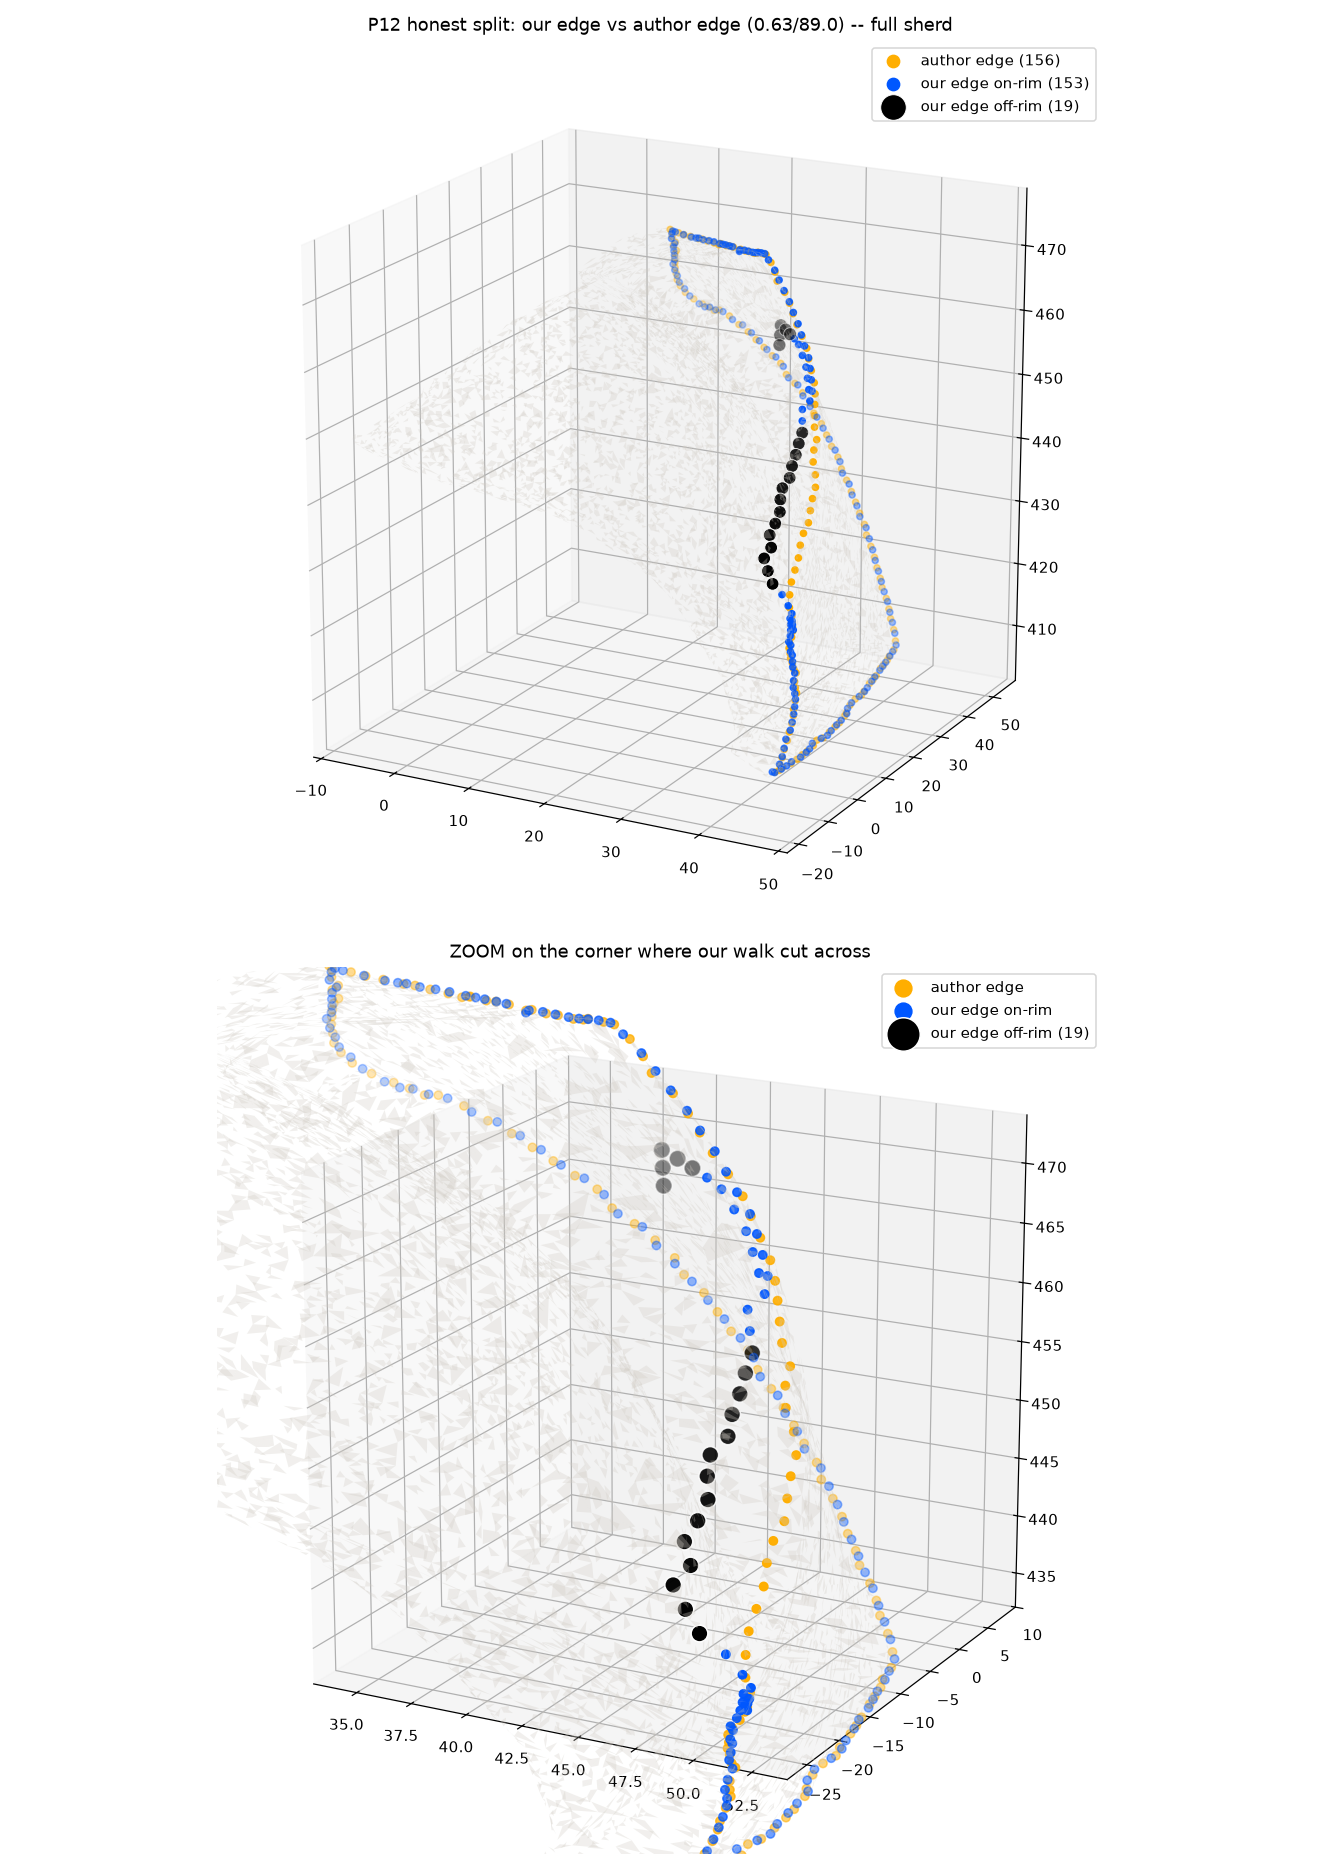
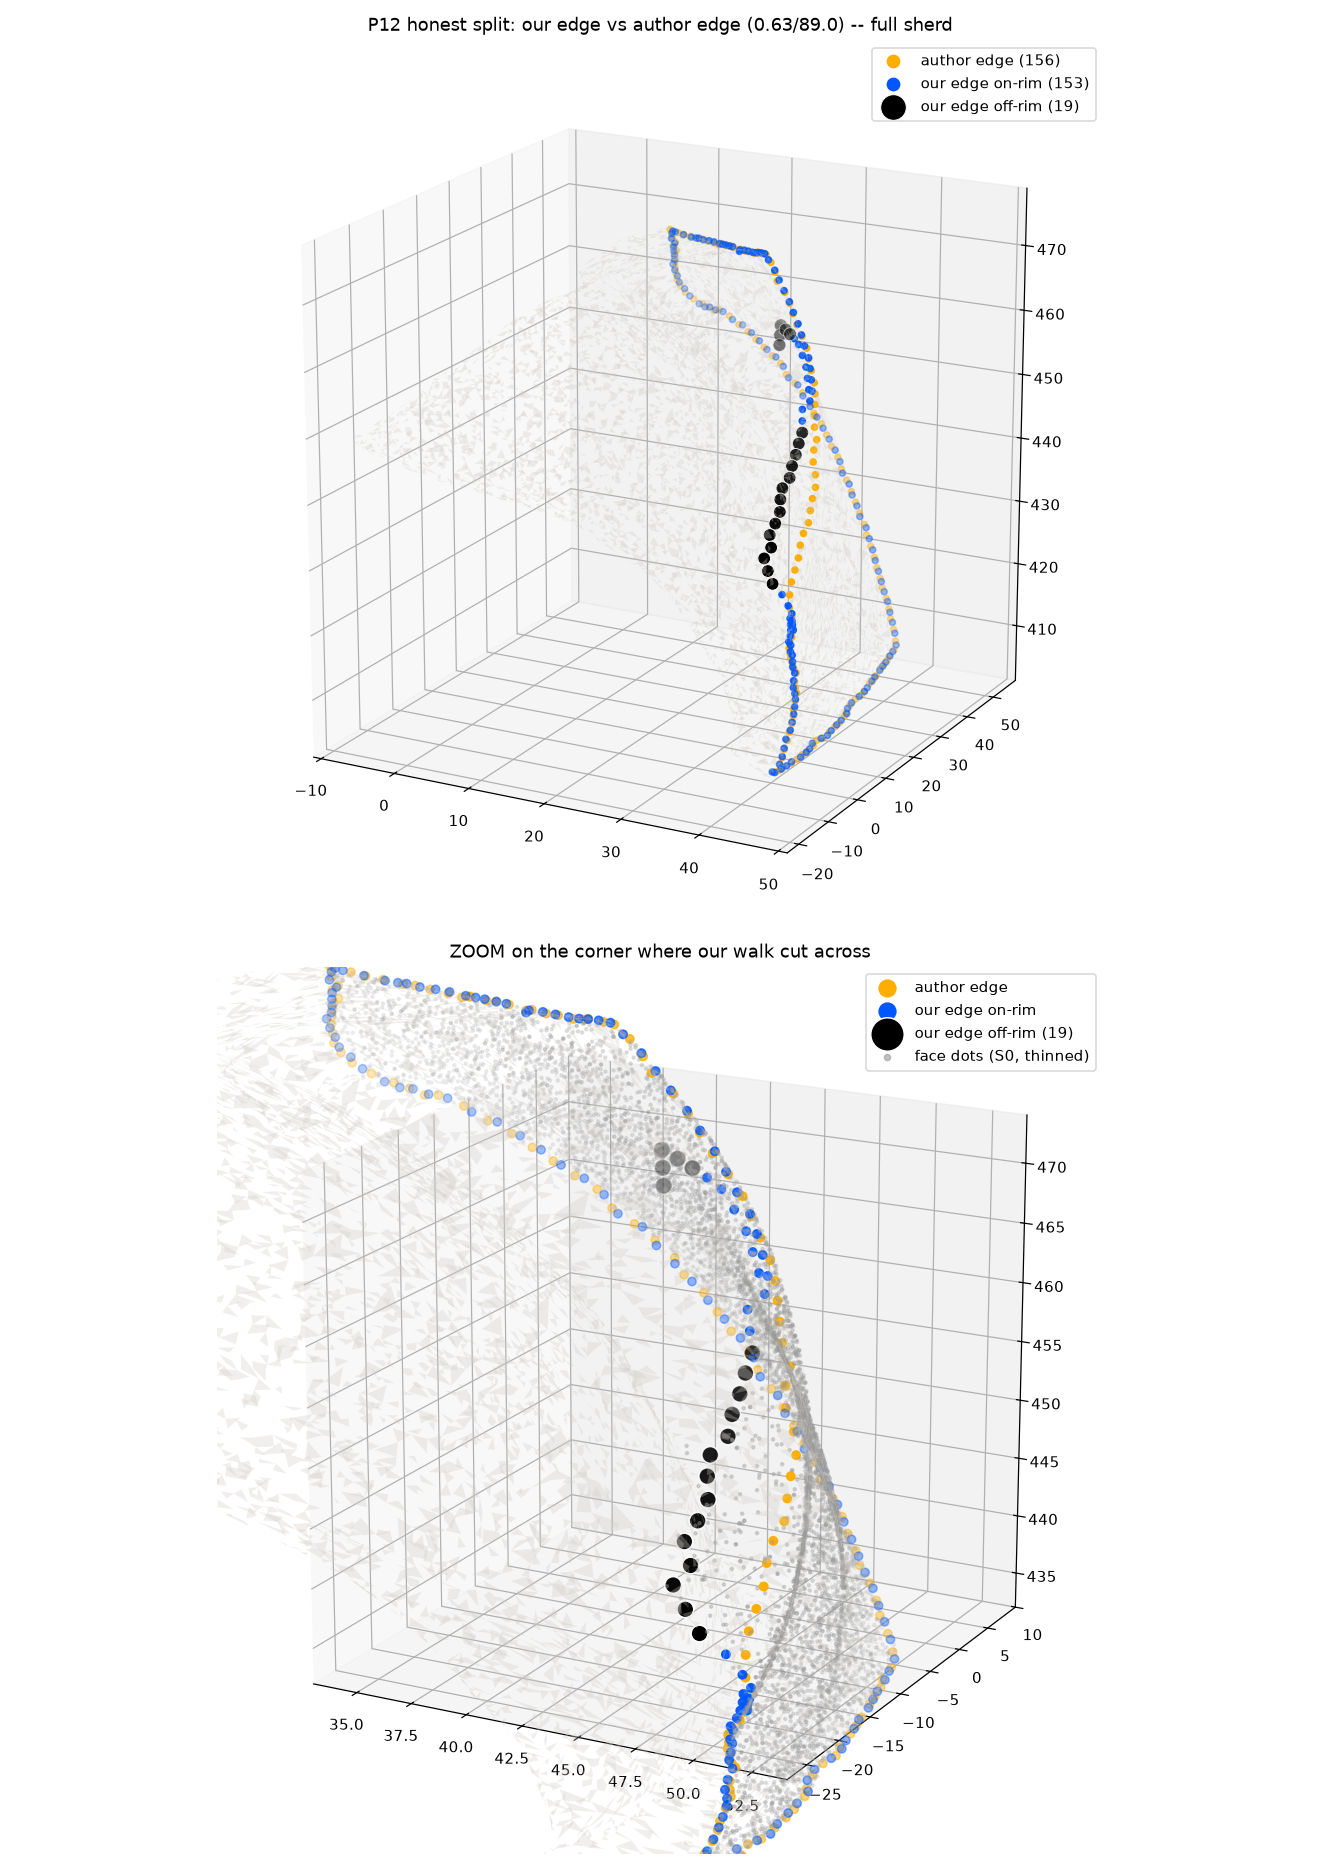
Corner zoom with face dots; overshoot + trim checks

Changed region(s): [[0.2795, 0.5273, 0.6523, 0.9925], [0.6523, 0.5273, 0.8386, 0.5893]]

diff --git a/.scratch/pota223/render_corner2.py b/.scratch/pota223/render_corner2.py
@@ -26,6 +26,16 @@ def loadobj(p):
 P12='C:/PR/SfSpp_preprocessing/.scratch/pota222/p12/'
 L='C:/PR/SfSpp_preprocessing/.scratch/pota223/lanes/'
 V,F=loadobj(P12+'mesh.obj')
+def loadxyz(p):
+    d=[]
+    f=open(p)
+    for ln in f:
+        s=ln.split()
+        if len(s)>=3:
+            try: d.append([float(x) for x in s[:3]])
+            except ValueError: pass
+    return np.array(d)
+S0=loadxyz(P12+'p12_S0_at4p5.xyz')
 a1=loadpcd(P12+'auth_Bl1.pcd')
 o0=loadpcd(L+'Pot_D_Piece_12_Breakline_0.pcd')
 dd,_=cKDTree(a1).query(o0)
@@ -46,6 +56,7 @@ ax2.add_collection3d(Poly3DCollection(V[F[::6]],facecolor=MESH,edgecolor='none',
 ax2.scatter(a1[:,0],a1[:,1],a1[:,2],s=30,c=AUTH,label='author edge')
 ax2.scatter(good[:,0],good[:,1],good[:,2],s=30,c=OURS,label='our edge on-rim')
 ax2.scatter(bad[:,0],bad[:,1],bad[:,2],s=120,c='k',edgecolors='w',linewidths=1.0,label='our edge off-rim (19)')
+ax2.scatter(S0[::5,0],S0[::5,1],S0[::5,2],s=4,c='#9a9a9a',label='face dots (S0, thinned)',alpha=0.6)
 ax2.set_title('ZOOM on the corner where our walk cut across')
 ax2.legend(markerscale=2,fontsize=10)
 ax2.view_init(elev=18,azim=-62); ax2.set_box_aspect((1,1,1))

diff --git a/.scratch/pota223/check_overshoot.py b/.scratch/pota223/check_overshoot.py
@@ -1,0 +1,23 @@
+import numpy as np
+from scipy.spatial import cKDTree
+def load(p, skiphead=False):
+    d=[]; f=open(p); data=not skiphead
+    for ln in f:
+        if not data:
+            if ln.startswith('DATA'): data=True
+            continue
+        s=ln.split()
+        if len(s)>=3:
+            try: d.append([float(x) for x in s[:3]])
+            except ValueError: pass
+    return np.array(d)
+P12='C:/PR/SfSpp_preprocessing/.scratch/pota222/p12/'
+s0=load(P12+'p12_S0_at4p5.xyz'); s1=load(P12+'p12_S1_at4p5.xyz')
+a0=load(P12+'auth_Bl0.pcd',True); a1=load(P12+'auth_Bl1.pcd',True)
+A=np.vstack([a0,a1])
+t=cKDTree(A)
+for nm,s in [('S0',s0),('S1',s1)]:
+    dd,_=t.query(s)
+    print(nm,'n=%d med=%.2f p90=%.2f p99=%.2f over2mm=%d (%.1f%%)'%(len(s),float(np.median(dd)),float(np.percentile(dd,90)),float(np.percentile(dd,99)),int((dd>2).sum()),100*float((dd>2).mean())),flush=True)
+    over=s[dd>2]
+    print(' over-bbox', over.min(axis=0).round(1), over.max(axis=0).round(1),flush=True)

diff --git a/.scratch/pota223/check_corner_trim.py b/.scratch/pota223/check_corner_trim.py
@@ -1,0 +1,17 @@
+import numpy as np
+def load(p):
+    d=[]
+    f=open(p)
+    for ln in f:
+        s=ln.split()
+        if len(s)>=3:
+            try: d.append([float(x) for x in s[:3]])
+            except ValueError: pass
+    return np.array(d)
+P12='C:/PR/SfSpp_preprocessing/.scratch/pota222/p12/'
+box=np.array([[33,54],[-28,10],[432,474]])
+for tag in ['at8','at4p5']:
+    for nm in ['S0','S1']:
+        s=load(P12+'p12_%s_%s.xyz'%(nm,tag))
+        m=(s[:,0]>=box[0,0])&(s[:,0]<=box[0,1])&(s[:,1]>=box[1,0])&(s[:,1]<=box[1,1])&(s[:,2]>=box[2,0])&(s[:,2]<=box[2,1])
+        print(tag,nm,'corner-region dots: %d (of %d)'%(int(m.sum()),len(s)),flush=True)
